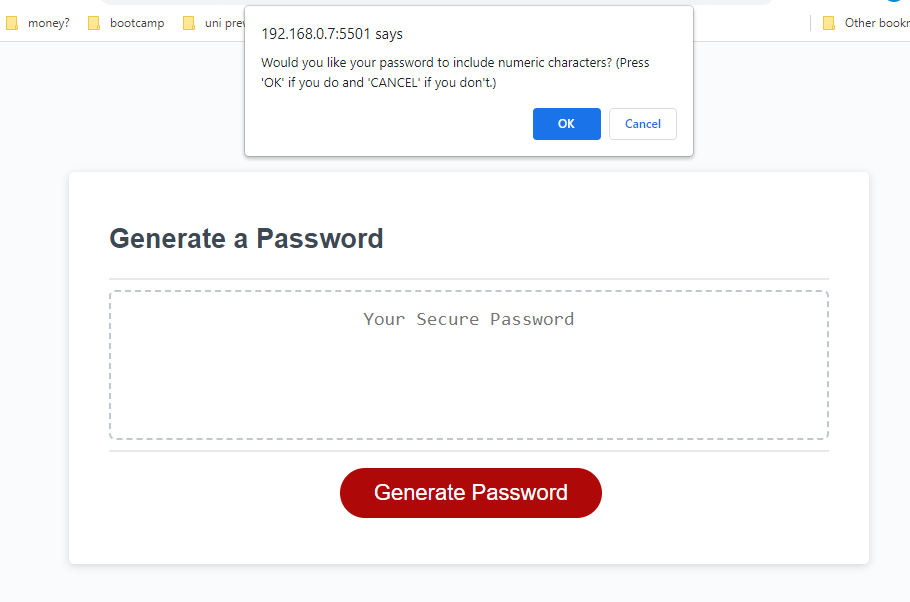
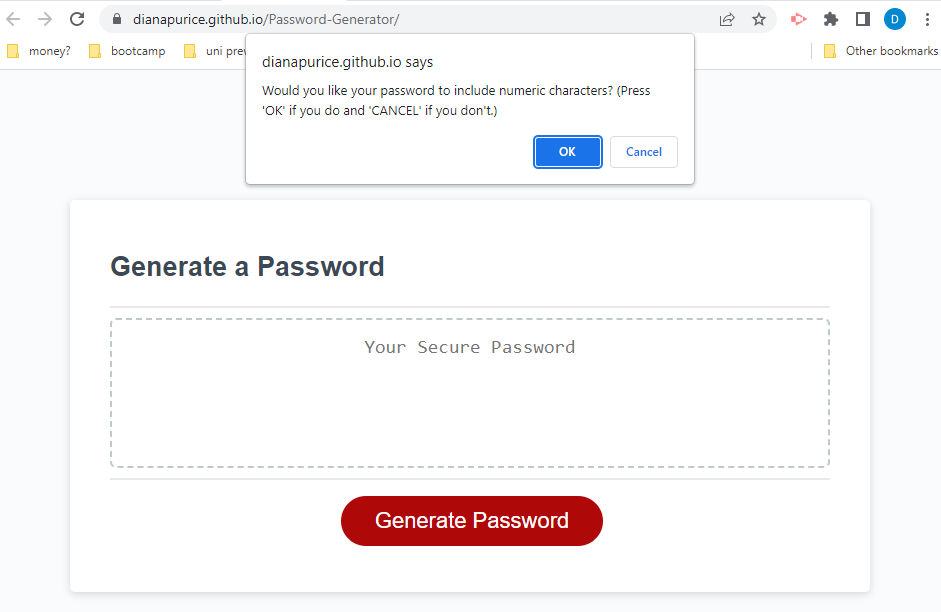
Added the application link to the readme file

diff --git a/README.md b/README.md
@@ -9,7 +9,7 @@ The application generates a password based on the user's criteria.
 
 <br><br>
 The application does not need any instalation.
-it can be viewed at:
+It can be viewed at: https://dianapurice.github.io/Password-Generator/
 
 ## Usage
 
